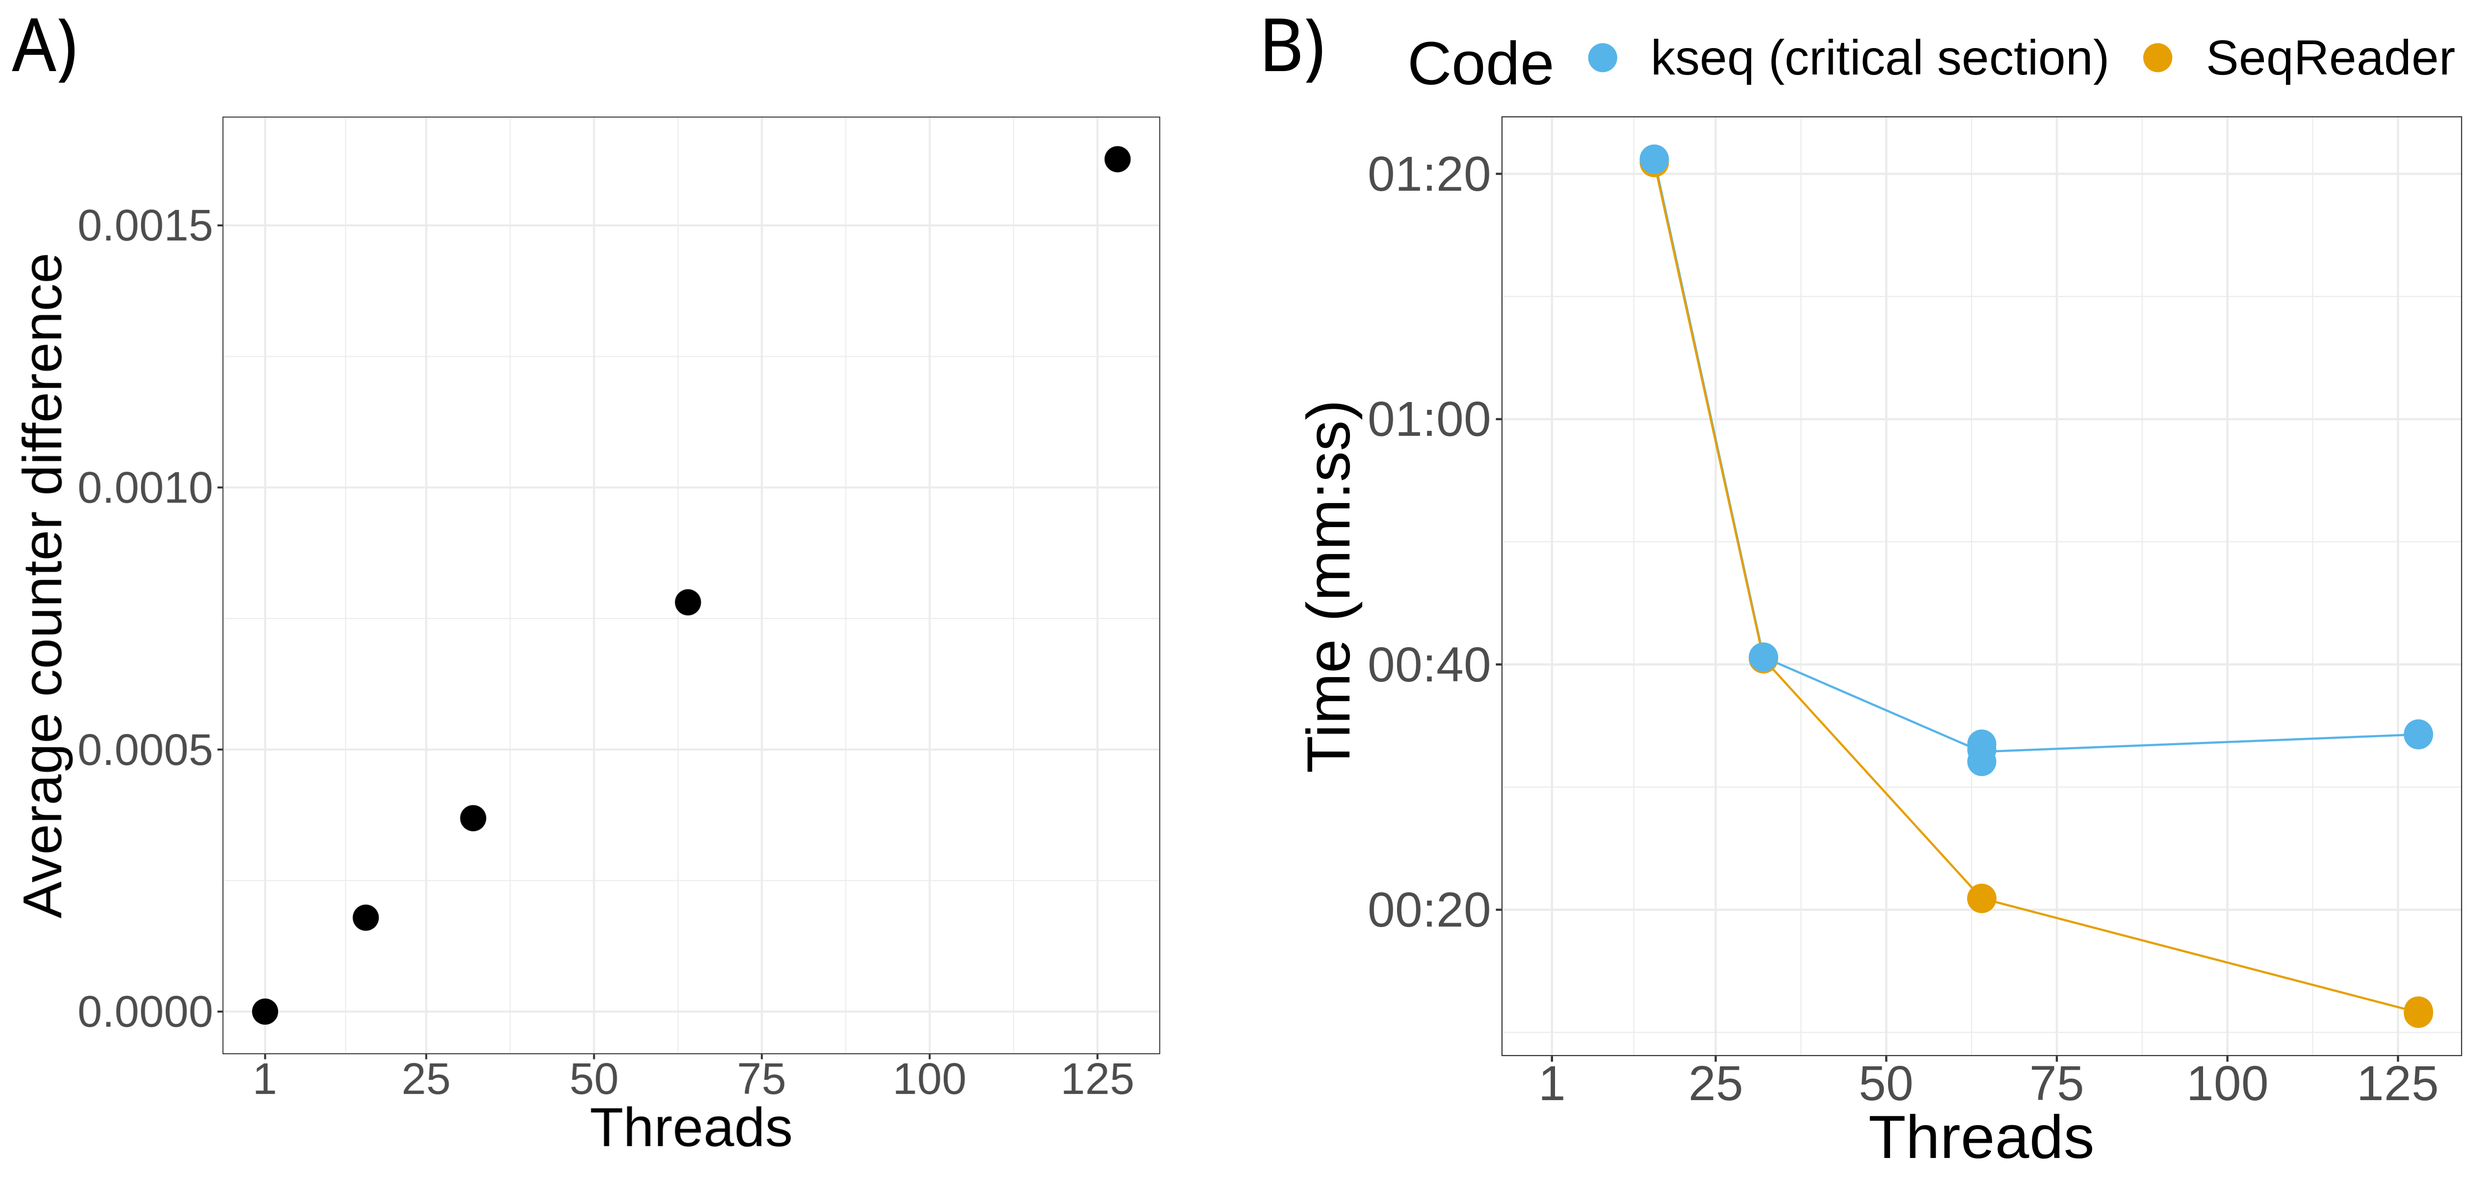
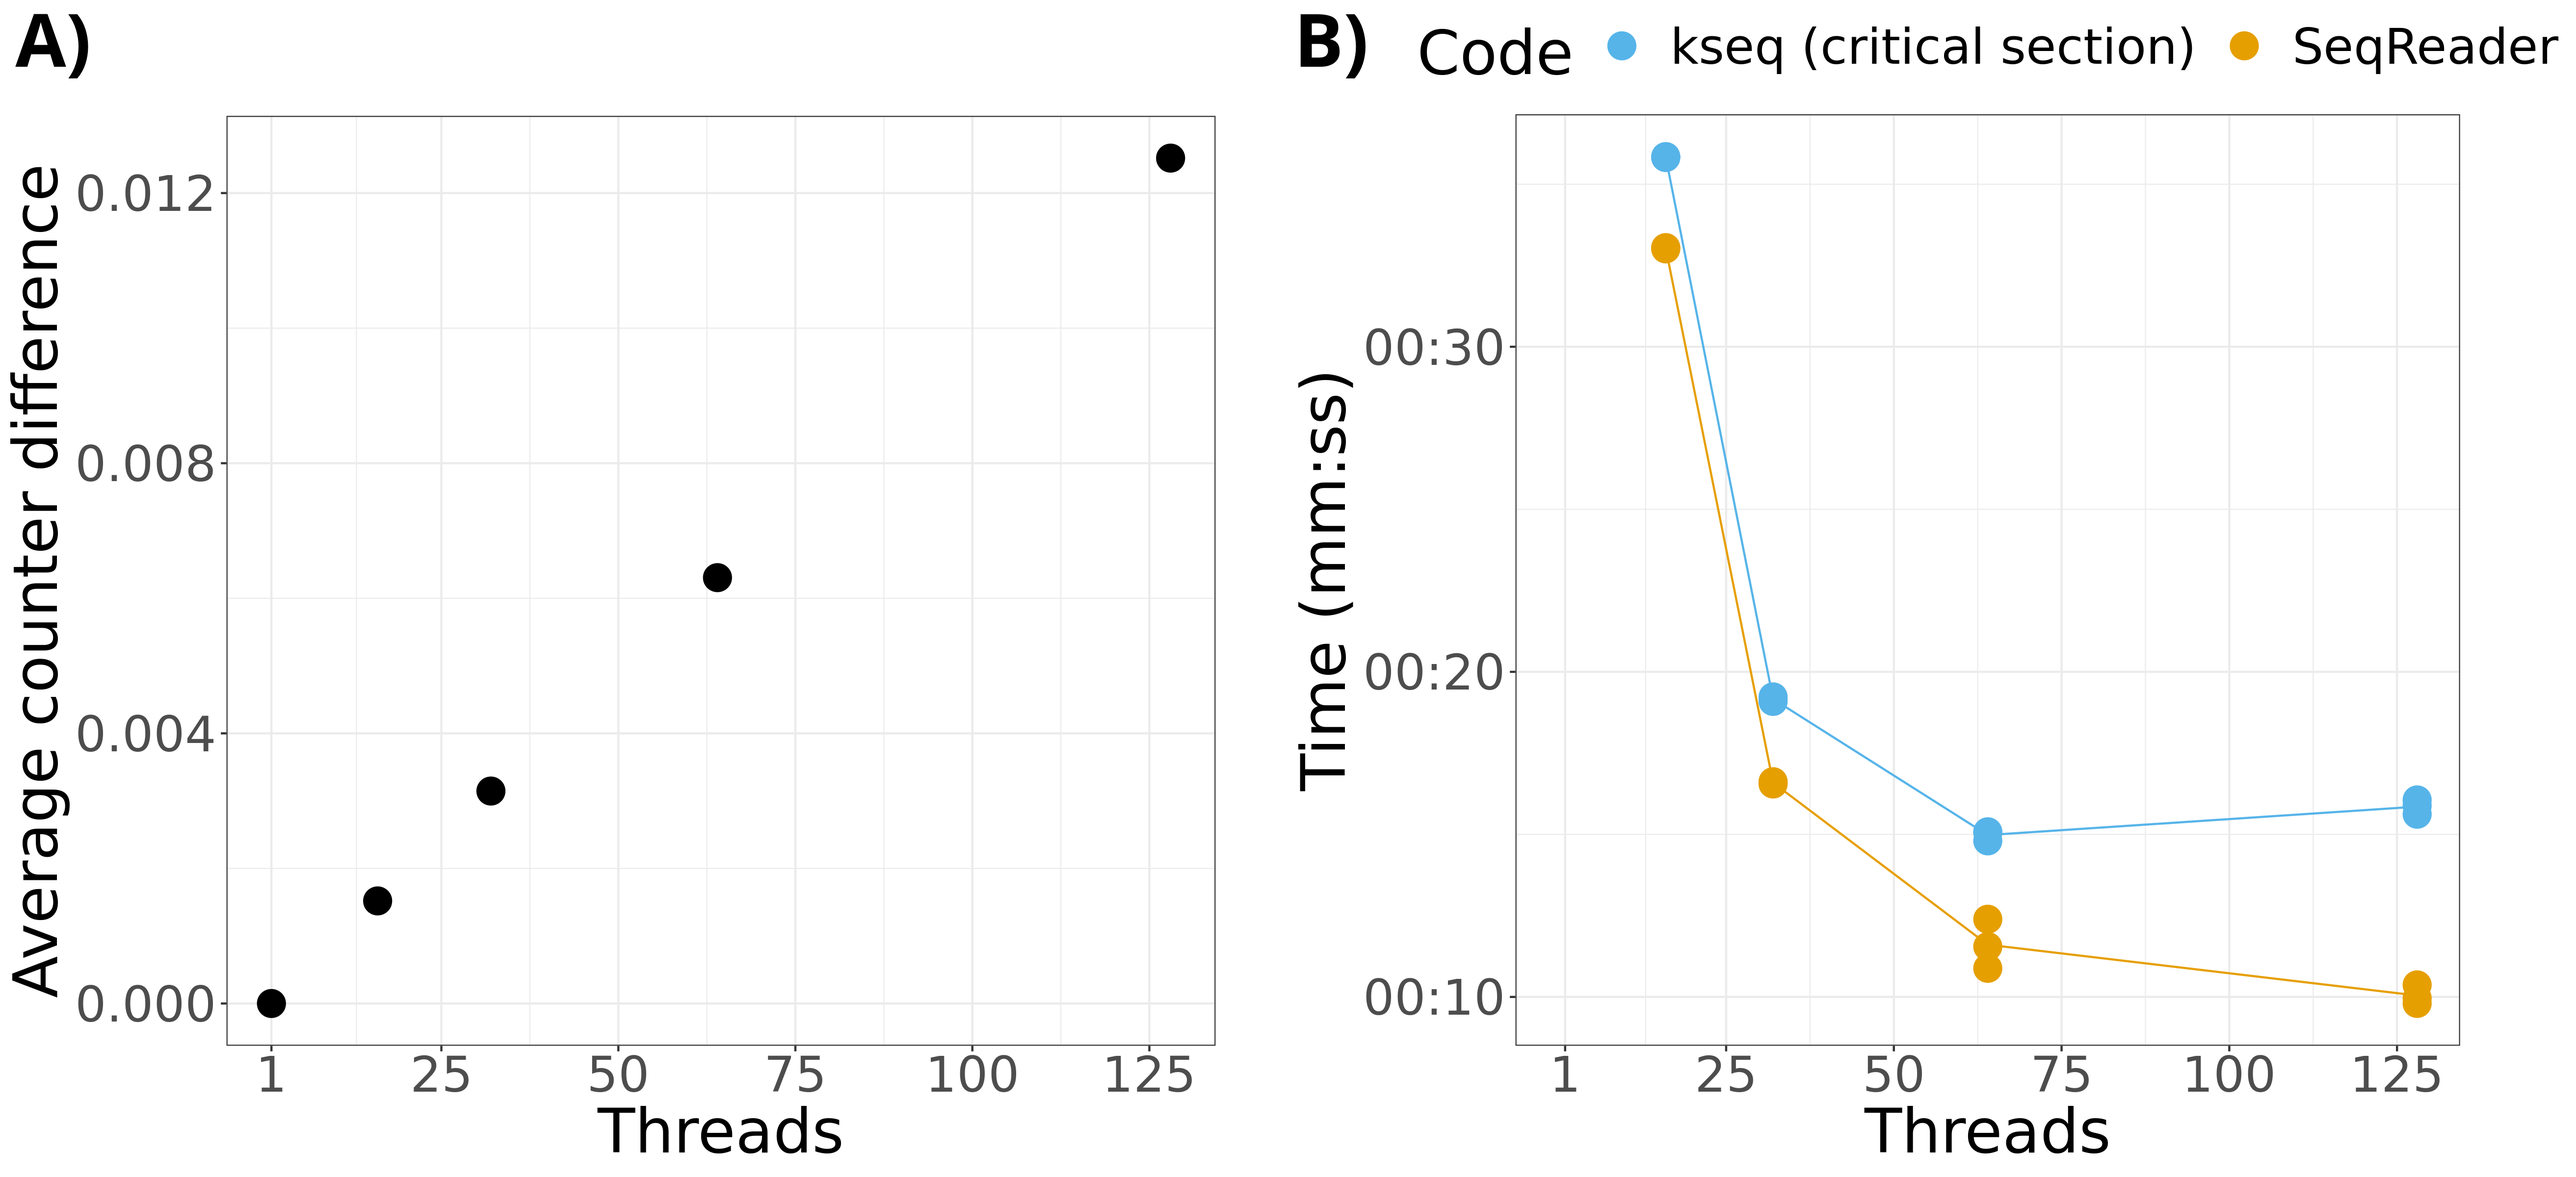
Update figure

diff --git a/paper.md b/paper.md
@@ -63,7 +63,7 @@ The library has the implementation of the following algorithms and data structur
 - **Sequence I/O** SeqReader and SeqWriter classes provide efficient and flexible I/O for sequence files. SeqReader is capable of reading sequences in different formats such as FASTA and FASTQ including multiline, and SAM format. The format is automatically detected even without file extension or if the data is piped. SeqReader also supports multiple threads to read in parallel, each thread receiving a copy of the sequence that can be modified as well as ad-hoc compression and decompression of the data in common formats (gzip, bzip2, xz, lrzip, zip, 7zip). \autoref{fig:scalability} B) shows the scalability of using multiple threads to load and process sequences.
 - **Utility functions** Various functions for common tasks such as reverse complementation, string manipulation, and logging.
 
-![**A)** The average counter difference between 10GiB Counting Bloom Filters with single threaded and multithreaded insertion of k-mers of 250,000 long reads. The single threaded version does not suffer from race conditions and thus has the ground truth. The more threads we add the more visible is the effect of race conditions, but thanks to the mitigation mechanism, the differences are small. **B)** Wall-clock time it takes to read in and run a simulated workload of 5ms per read on 250,000 long reads. The blue data points use efficient sequence reading code, kseq [@kseq], surrounded by a naive implementation of a critical section,  while the orange data points use SeqReader. Unlike the critical section implementation which plateaus after a number of threads, SeqReader scales well and keeps benefitting even from higher number of threads.\label{fig:scalability}](scalability.png){ width=100% }
+![**A)** The average counter difference between 3GiB Counting Bloom Filters with single threaded and multithreaded insertion of k-mers of 50,000 long reads. The single threaded version does not suffer from race conditions and thus has the ground truth. The more threads we add the more visible is the effect of race conditions, but thanks to the mitigation mechanism, the differences are small. **B)** Wall-clock time it takes to read in and run a simulated workload of 2ms per read on 250,000 long reads. The blue data points use efficient sequence reading code, kseq [@kseq], surrounded by a naive implementation of a critical section,  while the orange data points use SeqReader. Unlike the critical section implementation which plateaus after a number of threads, SeqReader scales well and keeps benefitting even from higher number of threads.\label{fig:scalability}](scalability.png){ width=100% }
 
 # Acknowledgements
 
